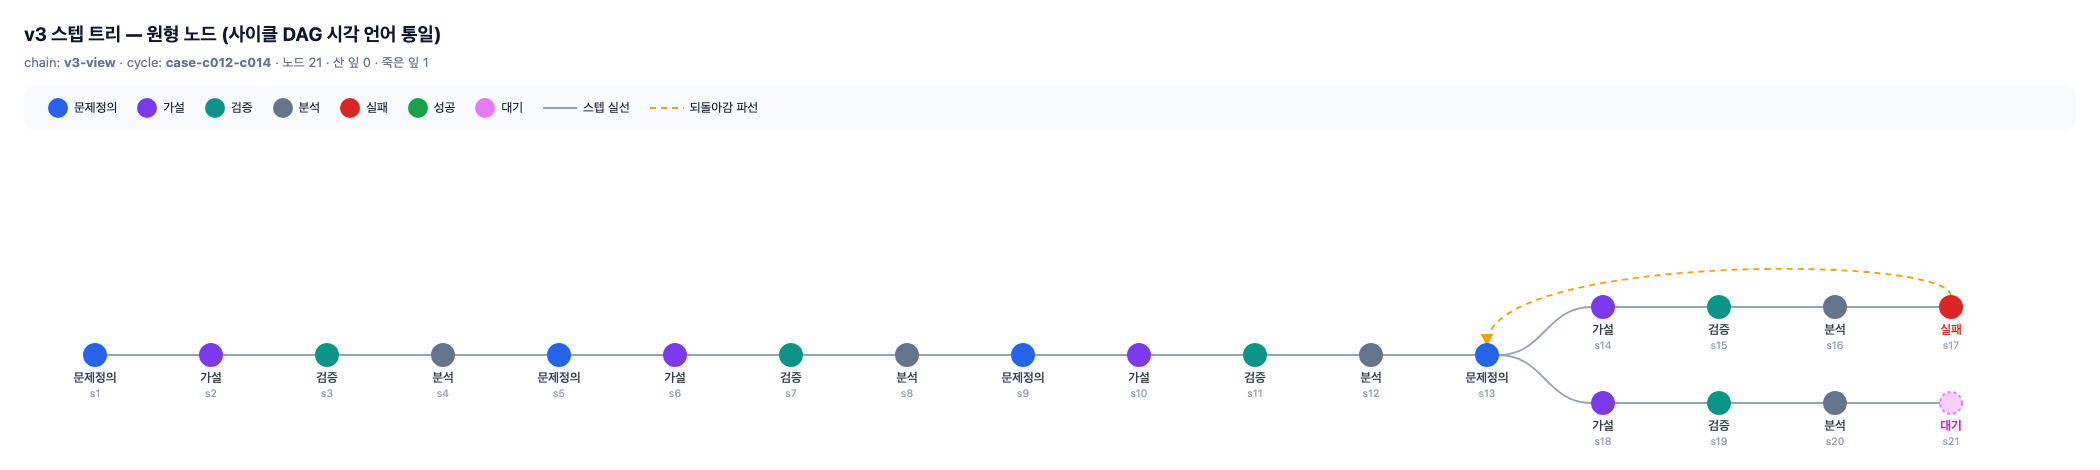
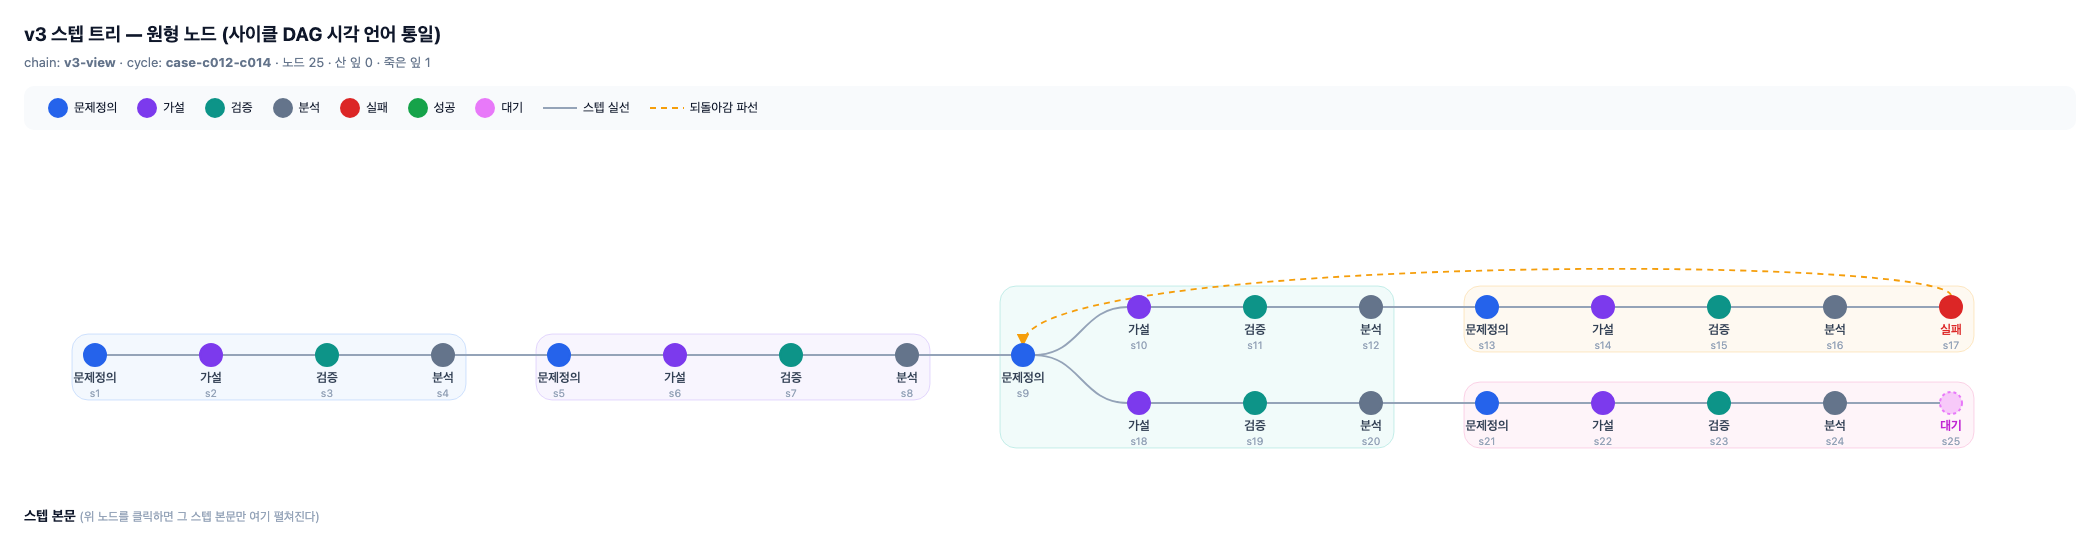
clew: 문제 영역 배경 리본 + 두 근본 통찰(코드복원·깃잉여) 기록
리본: 각 문제정의가 하위 시도를 연한 배경으로 감쌈 → 실패가 자기 문제로 복귀,
'어디로 백트래킹'을 찾을 필요 없음(문제 단위). 상현님 두 통찰 v3-build 이월:
(1) 백트래킹=코드도 그 상태 복원(스텝=커밋 진의) (2) 스텝별 디렉토리면 깃 잉여.

diff --git a/rooms/experiment/chains/v3-view/C001-circular-step-tree-unified-language/3-verification/circletree.py b/rooms/experiment/chains/v3-view/C001-circular-step-tree-unified-language/3-verification/circletree.py
@@ -82,8 +82,37 @@ def render_html(nodes, chain="v3-view", cycle="case-c012-c014", bodies=None):
     width = int(PAD_X * 2 + max_depth * STEP_W + R * 2 + 60)
     height = int(PAD_Y + max_col * LANE_H + R * 2 + 40)
 
-    p_edges, bt_edges, node_svg = [], [], []
+    p_edges, bt_edges, node_svg, region_svg = [], [], [], []
     live, dead = [], []
+    by = {n["id"]: n for n in nodes}
+
+    # --- 문제 영역 리본 (상현님: "백트래킹을 문제 단위로") ---
+    # 각 문제정의(define)는 자기 하위 시도(다음 define 전까지)를 하나의 문제로 소유한다.
+    # 그 소유 노드들의 bbox를 연한 배경 리본으로 그려 "이 시도들은 이 문제에 속한다"를 보인다.
+    def owned(root_id):
+        """root_id(define)가 소유하는 노드 id들 — 자식으로 내려가되 다른 define에서 멈춘다."""
+        acc, stack = [root_id], list(children.get(root_id, []))
+        while stack:
+            cid = stack.pop()
+            if by[cid]["kind"] == "define":   # 다른 문제의 시작 — 소유 밖
+                continue
+            acc.append(cid)
+            stack.extend(children.get(cid, []))
+        return acc
+    RIB_PAL = ["#3b82f6", "#8b5cf6", "#14b8a6", "#f59e0b", "#ec4899", "#64748b"]
+    define_ids = [n["id"] for n in nodes if n["kind"] == "define"]
+    for i, did in enumerate(define_ids):
+        ids = owned(did)
+        xs = [node_xy(x, col, depth)[0] for x in ids]
+        ys = [node_xy(x, col, depth)[1] for x in ids]
+        x0, x1 = min(xs) - R - 12, max(xs) + R + 12
+        y0, y1 = min(ys) - R - 10, max(ys) + R + 34  # 아래 라벨 공간
+        c = RIB_PAL[i % len(RIB_PAL)]
+        region_svg.append(
+            f'<rect class="region" x="{x0:.0f}" y="{y0:.0f}" '
+            f'width="{x1 - x0:.0f}" height="{y1 - y0:.0f}" rx="16" '
+            f'fill="{c}" fill-opacity="0.06" stroke="{c}" stroke-opacity="0.22" '
+            f'data-problem="{did}" />')
 
     for n in nodes:
         nid, kind, outcome = n["id"], n["kind"], n.get("outcome")
@@ -161,6 +190,7 @@ def render_html(nodes, chain="v3-view", cycle="case-c012-c014", bodies=None):
            '<defs><marker id="bt-arrow" viewBox="0 0 10 10" refX="8" refY="5" '
            'markerWidth="7" markerHeight="7" orient="auto-start-reverse">'
            '<path d="M0 0 L10 5 L0 10 z" fill="#f59e0b"/></marker></defs>'
+           + "".join(region_svg)  # 리본은 맨 뒤(엣지·노드 아래)
            + "".join(p_edges) + "".join(bt_edges) + "".join(node_svg) + '</svg>')
 
     # 본문 카드 — 각 스텝의 md를 인라인 임베드(fetch 없음, 자기완결). 기본 hidden.

diff --git a/rooms/experiment/chains/v3-build/_viewer-design/README.md b/rooms/experiment/chains/v3-build/_viewer-design/README.md
@@ -148,8 +148,29 @@ R1 피드백(상현님):
 - 상현님 "통합·실패 잘 그려졌다" → s21이 **문제정의**로 이어가거나 **성공**으로 닫힘.
 - "더 고칠 것" → 그에 맞는 결과.
 
-**상호작용 실증(r3)**: `captures/r3-node-click-body.png` — 노드 클릭→본문 카드 펼침,
-여러 개 동시 열림 유지(자기완결, fetch 없음). C007 상호작용을 원형 뷰어에 이식 완료.
+**상호작용 실증(r3)**: `captures/r3-node-click-body.png` — 노드 클릭→그 스텝 본문만
+펼침(단일 열림, 상현님). C007 상호작용을 원형 뷰어에 이식 완료.
+
+## 문제 단위 백트래킹 + 두 근본 통찰 (상현님, 2026-07-21)
+
+**문제 영역 배경 리본**: 각 문제정의(define)가 자기 하위 시도(다음 define 전까지)를
+연한 색 리본으로 감싼다. **실패는 자기 리본(=문제)으로 되돌아간다** — "어디로 백트래킹"을
+찾을 필요가 없다. 상현님: *"백트래킹을 문제 단위로 하면 쉽게 찾을 수 있다."* s9 영역 안에
+실패 시도·통합 시도가 담겨, 실패 파선이 s9로 감이 눈에 보인다.
+
+- **"두 종류 갈라진 지점 찾기"의 답 = s9**: 추적하니 s9 본문("분석 다음 결과로 실패/
+  문제정의/성공 나열")에서 문제정의가 결과 잎 종류로 처음 등장 = 두 종류(define/redefine)의
+  탄생점. 실패 백트래킹을 s13→s9로 정정. 문제 단위 리본이 이걸 구조로 보여준다.
+
+**⭐ v3-build로 이월할 두 근본 통찰:**
+1. **백트래킹하면 코드도 그 상태로 복원돼야 한다** (상현님): 지금 트리는 s9로 백트래킹
+   했다고 그리지만, 실제 circletree.py 코드엔 s9 이후 실패 가지 작업이 다 쌓여 있다.
+   진짜 백트래킹이면 s9 시점 코드로 되돌아가 새 가지를 시작해야 실패 가지가 안 섞인다.
+   = **스텝=커밋(C005)의 진짜 의미**: 문제 단위 백트래킹 = 그 문제정의 스텝 상태로 복원.
+2. **깃이 잉여일 수 있다** (상현님): 코드를 **스텝별 디렉토리로 관리**하면(지금 각 사이클이
+   자기 3-verification/에 코드를 담듯), 백트래킹 = 그 스텝 디렉토리 참조 = **깃 checkout
+   불필요.** 스텝 트리가 이미 디렉토리로 코드 상태를 소유하면 깃은 잉여. C005 "스텝=깃
+   커밋"을 뒤집는 설계 질문 — v3 모델에서 "스텝 노드가 코드 상태를 소유하는가"를 정할 때.
 
 실패가 없으니(버린 시도 없음) 파선·죽은 잎 0. **뷰어가 자기를 설계한 대화를 그린다** —
 자기증명 + gilv3 첫 도그푸딩. 피드백마다 이 트리에 각인 중.

diff --git a/rooms/experiment/chains/v3-view/C001-circular-step-tree-unified-language/3-verification/design-steptree/steps/s25.md b/rooms/experiment/chains/v3-view/C001-circular-step-tree-unified-language/3-verification/design-steptree/steps/s25.md
@@ -1,3 +1,3 @@
-# s25 · 대기 (pending)
+# s25 · 문제정의 (앞으로)
 
-단일 열림으로 고쳤는지 상현님께 묻는 중. 이제 시각 언어 다 선 듯 — 닫을 때?
+상현님: 백트래킹을 문제 단위로 하면 갈라진 지점을 쉽게 찾는다. 그걸 시각화 — 문제 영역 배경 리본.

diff --git a/rooms/experiment/chains/v3-view/C001-circular-step-tree-unified-language/3-verification/design-steptree/steps/s28.md b/rooms/experiment/chains/v3-view/C001-circular-step-tree-unified-language/3-verification/design-steptree/steps/s28.md
@@ -1,0 +1,4 @@
+# s28 · 분석
+
+리본이 나왔다. s9 영역 안에 실패 시도·통합 시도가 담겨 '어디로 백트래킹'을 찾을 필요 없음이 눈에 보인다.
+상현님 두 통찰: (1) 백트래킹하면 코드도 그 상태로 복원돼야 한다. (2) 코드를 스텝별 디렉토리로 관리하면 깃이 잉여일 수 있다 → v3-build 이월.

diff --git a/rooms/experiment/chains/v3-view/C001-circular-step-tree-unified-language/3-verification/design-steptree/steps/s26.md b/rooms/experiment/chains/v3-view/C001-circular-step-tree-unified-language/3-verification/design-steptree/steps/s26.md
@@ -1,0 +1,3 @@
+# s26 · 가설
+
+각 문제정의가 자기 하위(다음 define 전까지)를 연한 배경 리본으로 감싼다. 실패는 자기 리본(문제)으로 되돌아감.

diff --git a/rooms/experiment/chains/v3-view/C001-circular-step-tree-unified-language/3-verification/design-steptree/steps/s27.md b/rooms/experiment/chains/v3-view/C001-circular-step-tree-unified-language/3-verification/design-steptree/steps/s27.md
@@ -1,0 +1,3 @@
+# s27 · 검증
+
+owned() 계산(define가 소유하는 노드 = 다음 define 전까지) + bbox 리본 렌더. 색은 문제별 팔레트.

diff --git a/rooms/experiment/chains/v3-view/C001-circular-step-tree-unified-language/3-verification/design-steptree/steps/s29.md b/rooms/experiment/chains/v3-view/C001-circular-step-tree-unified-language/3-verification/design-steptree/steps/s29.md
@@ -1,0 +1,3 @@
+# s29 · 대기 (pending)
+
+리본까지 시각 언어 다 선 듯. 상현님: 뷰어 마무리 먼저. 이 사이클 닫을 준비 됐는지 묻는 중.